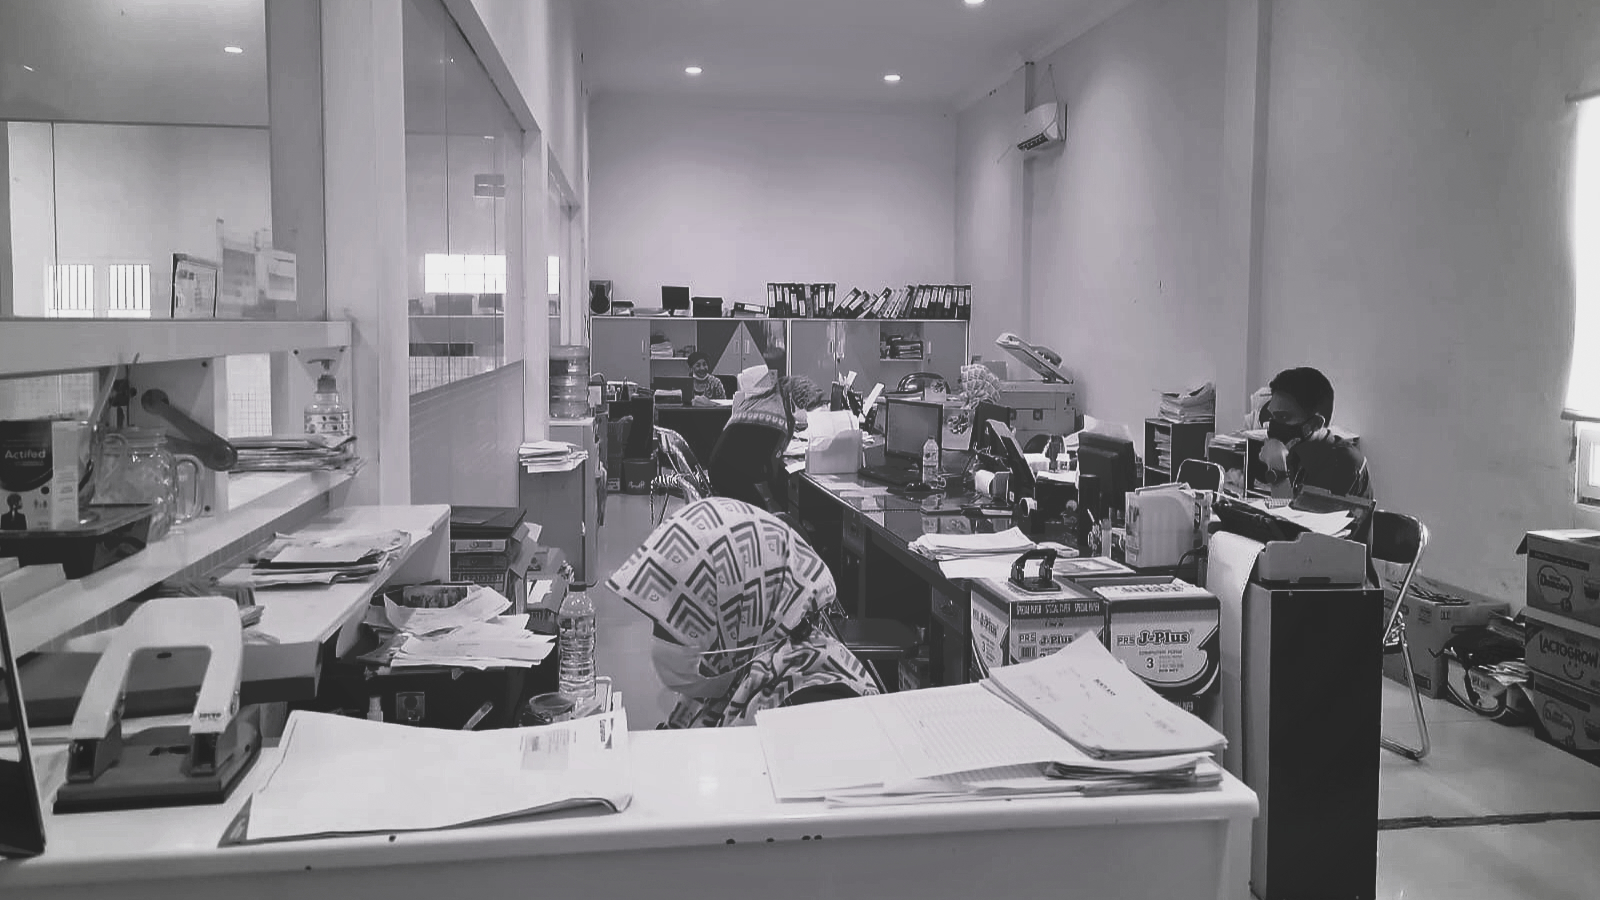
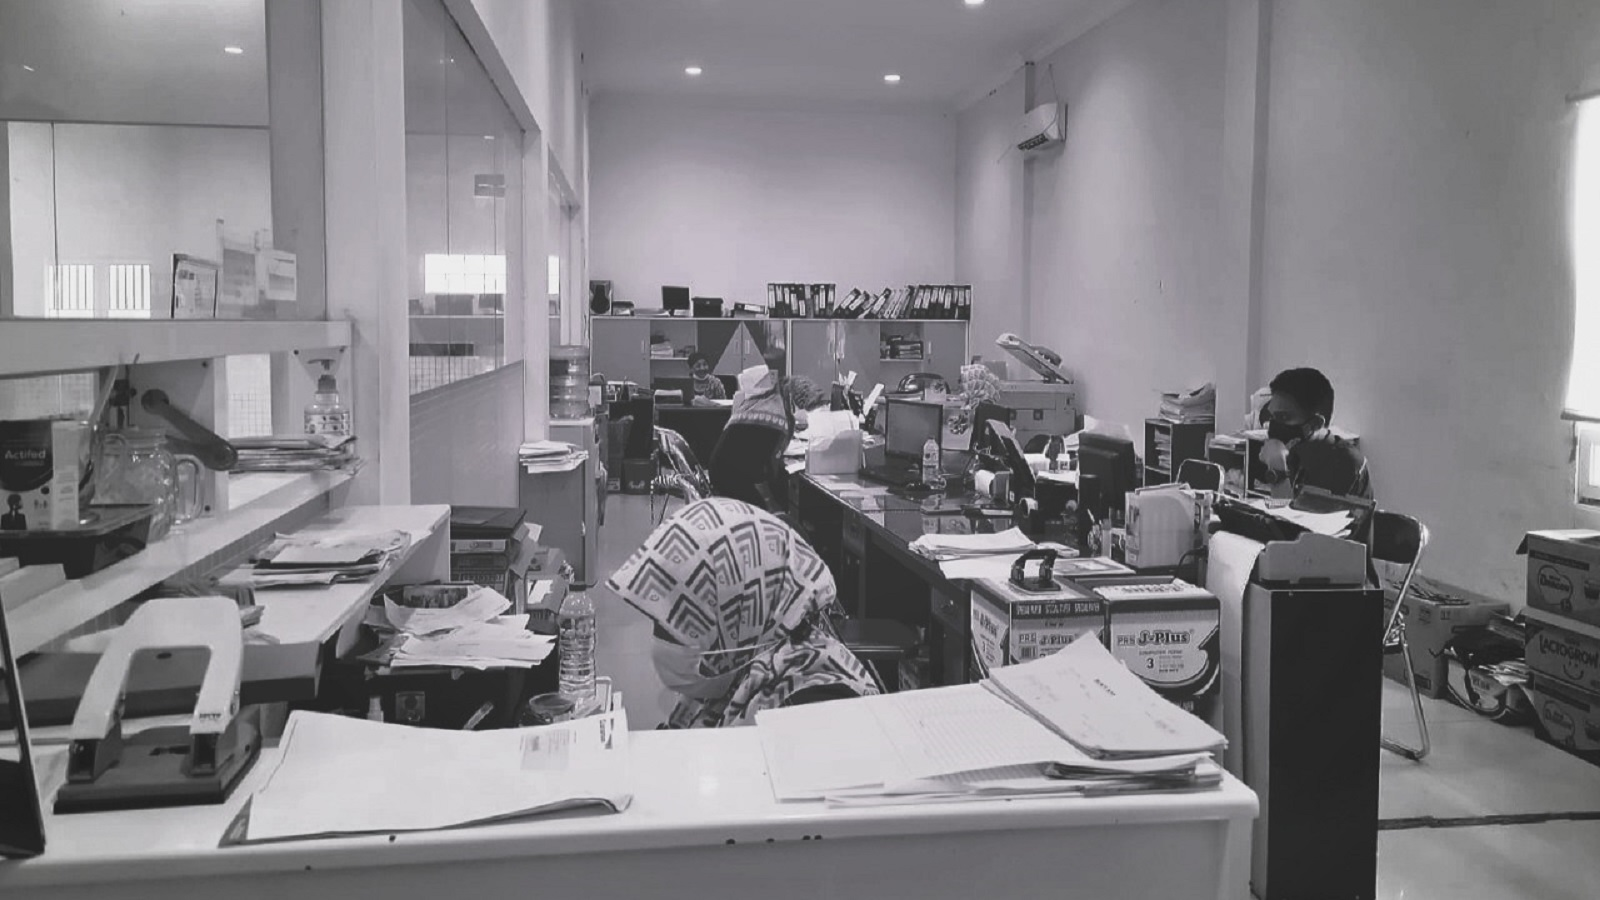
Add images to home

diff --git a/resources/views/home.blade.php b/resources/views/home.blade.php
@@ -22,7 +22,7 @@
         <div class="tentang-kami" id="tentang">
             <div class="container">
                 <div class="img-office">
-                    <img src="assets/img/dummy/tentang_kami.png" width="600px" alt="Gambar suasana kantor">
+                    <img src="{{ asset('assets/img/dummy/tentang kami.jpeg') }}" width="600px" alt="Gambar suasana kantor">
                 </div>
                 <div class="text-box">
                     <h1 class="heading-title">TENTANG KAMI</h1>
@@ -43,7 +43,7 @@
                         <img src="assets/img/dummy/nota_kerja.png" alt="Pekerja 2">
                     </div>
                     <div class="img-pekerja">
-                        <img src="assets/img/dummy/richie_kerja.png" alt="Gudang">
+                        <img src="{{ asset('assets/img/dummy/gudang_kerja.jpeg') }}" alt="Gudang">
                     </div>
                 </div>
 
